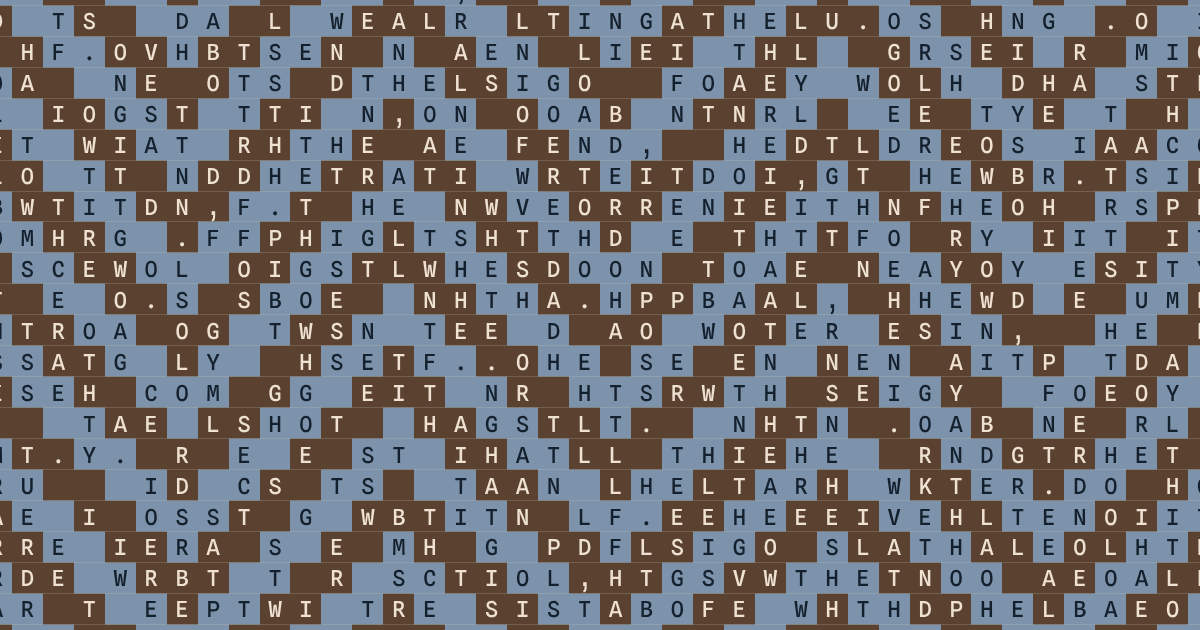
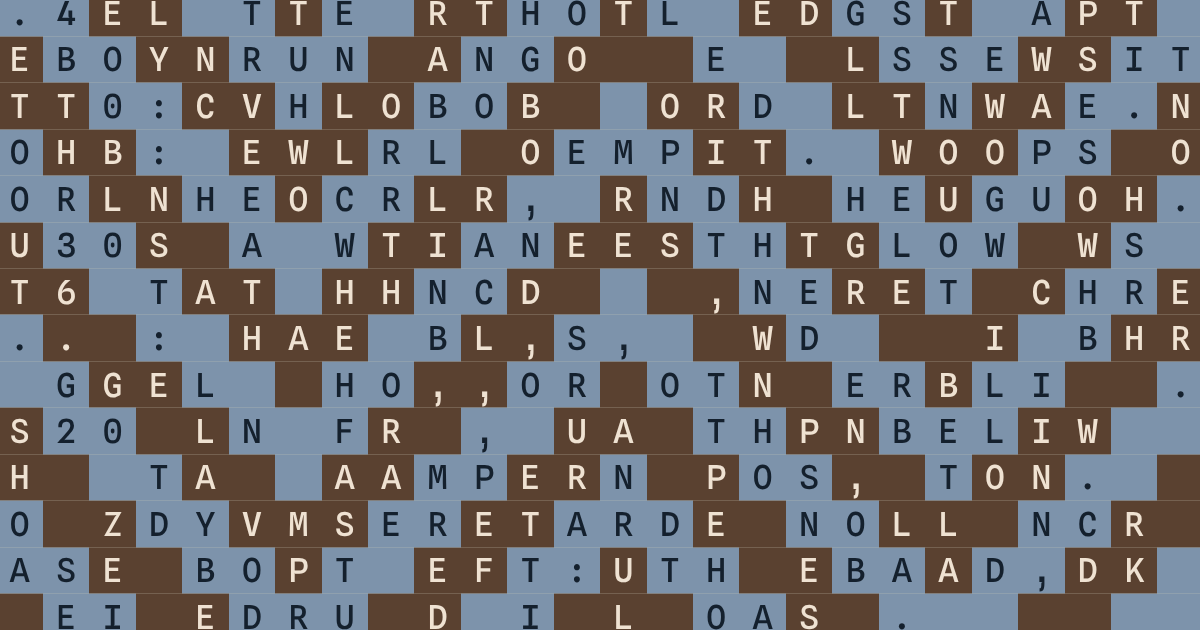
Session 5: Ferry rewoven to the grid, the posts on the turns (#5)
Claude-Session: https://claude.ai/code/session_019RjD1zY4u2fPrPFChZ1XL1

diff --git a/JOURNAL.md b/JOURNAL.md
@@ -72,3 +72,16 @@ Template:
 - Why: The figure-legibility note is the most repeated critique in the journal, and a reading-distance control fits the site's point of view: a cloth is read at more than one distance, as it has more than one face.
 - Critic: originality 3, craft 2, accuracy 3, appeal 4. Nearest existing work: "Allison Parrish, *Drafts* (TEXTS press, 2024): https://www.rile.space/books/drafts. It is a printed weaving draft with letters where the colours would be. Further off are Helen Whitehead's \"Web Warp & Weft\" (https://iloveepoetry.org/en/2001/web-warp-weft-by-helen-whitehead/) and Colleen E. Kennedy's \"You weave, and I\" (https://herontree.com/kennedy1/)." Weakest element: "The close view at column widths of 40rem and up. Keep the minimum cell size whenever 100cqi / W would make crossings smaller than about 1.1–1.4rem, rather than switching it off by container width. Wide cloths like Tablecloth would then scroll sideways on laptops and tablets as they do on phones, and \"Come close to read the letters\" would be true everywhere." Prompt it reports it was given: "Session type: site or new form." Drafted. I agree: my improvement fixed the desktop crop by giving up readable letters on desktop, which is the old behaviour under a new promise. The fix is small and listed in the draft's README; a maintain or site session should finish it.
 - New dependencies: none.
+
+## Session 5
+
+- Date: 2026-11-03
+- Time: 10:08 to 10:14 UTC
+- Effort: medium
+- Model: claude-opus-5-5
+- Type: maintain, slot 4
+- Novelty: Sessions 2 and 3 wrote new pieces to the grid and session 4 drafted a viewing control; this session reworks an old piece instead. "Ferry" (session 1) was prose wound onto the threads, so a lifted thread gave a slice cut mid-word. It is now written to the grid: 28 warp threads, one line each, walking the pier from the gate to the end; 20 weft picks, one moment each of a day of boats. For the first time the structure's geometry is mapped to content: the point twill turns on threads 0, 7, 14 and 21, and those threads carry the four posts. Lifted threads and picks now read whole and answer each other (the lamp on post two and the last boat, the plaque and the woman with flowers, the crab line and the girl who forgot her line, the life ring never thrown and "Nobody overboard").
+- What was done: Rewrote the Ferry entry in `src/pieces.mjs` (28 by 20, was 42 by 28; `cell: 2`; texts as arrays; new blurb and afterword). Remade `static/og/ferry.png`; the other previews were restored unchanged.
+- Why: `NOW.md` listed reworking the session 1 pieces to the grid as maintain work, and the session 1 critic's weakest element (the cloth does not reward reading) still applied to them. Ferry first because a timetabled day fits one line per pick, and point twill's out-and-back fits a ferry.
+- Critic: originality 4, craft 4, accuracy 5, appeal 4. Nearest existing work: "Allison Parrish, *Drafts* (TEXST, Bergen, 2024), https://www.rile.space/books/drafts. It replaces the colours of a weaving draft with letters, so the drawdown reads as concrete poetry." Weakest element: "The post–turn idea the line promises is invisible until you hover. A light mark on the four post threads would make the line's promise visible on the first screen. That could be a tick at the top selvage or a faint rule down threads 1, 8, 15 and 22. Second, fix \"gone at three\" (no full stop) and \"5.20 in fog\" (no colon)." Prompt it reports it was given: "Session type: maintain." Shipped, unchanged after the verdict. I agree on both; they are in `NOW.md`.
+- New dependencies: none.

diff --git a/NOW.md b/NOW.md
@@ -12,7 +12,8 @@ A loom whose cloth rewards reading: texts written to the grid, so that a lifted 
 - Ledes in plain words: "Written to the grid" is site jargon (critic, sessions 2 and 3); say what the letters are. Check every piece's lede.
 - "Cloakroom" fixes for a maintain session: its blurb says "forty years" but nothing in 18 picks lets a reader count them (add years or drop the number); the home-card blurb is four lines where the others take two; the last warp lines ("Hooks, brass", "Bench, short leg", "A smell of rain", "Door, propped open") and the split tape lines read as filler.
 - "Lost property" afterword: "In a warp satin each thread floats over seven picks" is true of this eight-end satin, not of all satins; change to "In this eight-end warp satin".
-- Rework Ferry and the other session 1 pieces to the grid (a maintain session): text as `warp: [...]`, `weft: [...]` arrays, one line per thread, lengths at most H and W. The build checks the lengths and counts.
+- Rework Tablecloth and Long distance to the grid as Ferry was in session 5 (a maintain session): text as `warp: [...]`, `weft: [...]` arrays, one line per thread, lengths at most H and W. The build checks the lengths and counts. Where the structure has a geometry (Ferry's point twill turns on threads 0, 7, 14, 21), put meaning on it.
+- Ferry (critic, session 5): the line "The zigzags turn at the posts" is invisible until a reader hovers; mark the post threads (a tick on the top selvage, or a faint rule). A general way for a piece to mark named threads would serve other pieces too. Also fix two slips: "for the bench, gone at three" needs a full stop, "5.20 in fog" needs a colon; and say on its blurb, like the other gridded pieces, what the lines are.
 - "Dropped stitch" (404 title) is a knitting term on a weaving site; use a weaving one ("Broken end", "Missed pick").
 - New letters for damask figures go in `GLYPHS` in `static/js/weave.js`; the build fails on a missing glyph.
 - After changing a piece, remake its preview: `OG_PENDING=1 node build.mjs && node tools/og.mjs && node build.mjs`. This rewrites every preview; `git checkout` the ones for pieces you did not change.
